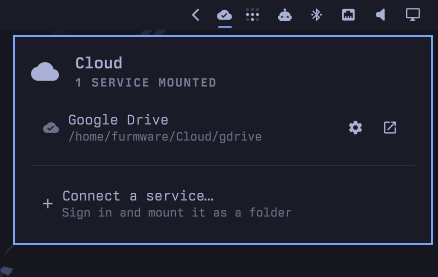
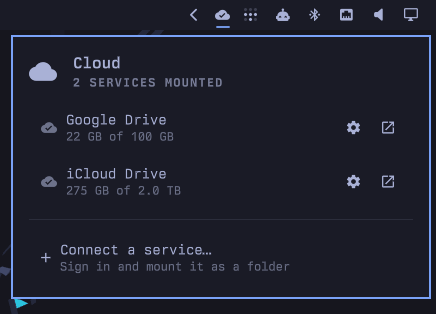
feat: added iCloud onboarding workflow

diff --git a/README.md b/README.md
@@ -32,11 +32,13 @@ for your password. You can install it yourself first with the same command.
 ## Connecting a service
 
 Click the cloud icon in the bar, then **Connect a service…**. A terminal opens
-and asks three questions: which provider, what to call the folder, and — for
-Google Drive — whether to show Google Docs as Office files.
+and asks which provider to use, what to call the folder, and any credentials or
+provider-specific choices it needs.
 
-Signing in happens in your browser. When it finishes, the folder is mounted,
-bookmarked in the Files sidebar, and set to mount again at every login.
+OAuth services sign in through your browser. iCloud uses your regular Apple
+Account password and then asks for a 2FA code in the terminal. When sign-in
+finishes, the folder is mounted, bookmarked in the Files sidebar, and set to
+mount again at every login.
 
 ## What it does to your system
 
@@ -177,15 +179,17 @@ Even `--purge` leaves rclone credentials and provider-side data intact. The
 plugin does not remove the shared `rclone` package because other tools may use
 it.
 
-## Not yet supported
+## Experimental support
 
-**iCloud Drive.** rclone's iCloud backend exists but is classified
-experimental: its trust token expires every 30 days and needs re-authenticating
-by hand, app-specific passwords are rejected, and there are open upstream bugs
-in the 2FA flow. Support is planned once the plugin can handle scheduled
-re-authentication properly rather than presenting a monthly breakage as an
-error. You can connect it today via **Something else** in the wizard
-(backend name `iclouddrive`), with those caveats.
+**iCloud Drive.** Connect it via **Something else** in the wizard (backend name
+`iclouddrive`). It requires your regular Apple Account password; app-specific
+passwords are rejected. rclone classifies this backend as experimental, and its
+trust token expires every 30 days. Until the plugin can schedule that renewal,
+reauthenticate manually with `omarchy-cloud-reconnect` as shown above.
+
+rclone does not expose iCloud's storage quota, so the panel's slow usage refresh
+calls Apple's storage endpoint with the session cookie rclone already saved.
+That cookie stays in memory and is never printed or passed on a command line.
 
 **Offline sync.** Only cached files work offline. A true offline folder needs
 `rclone bisync` and a conflict-resolution story.
